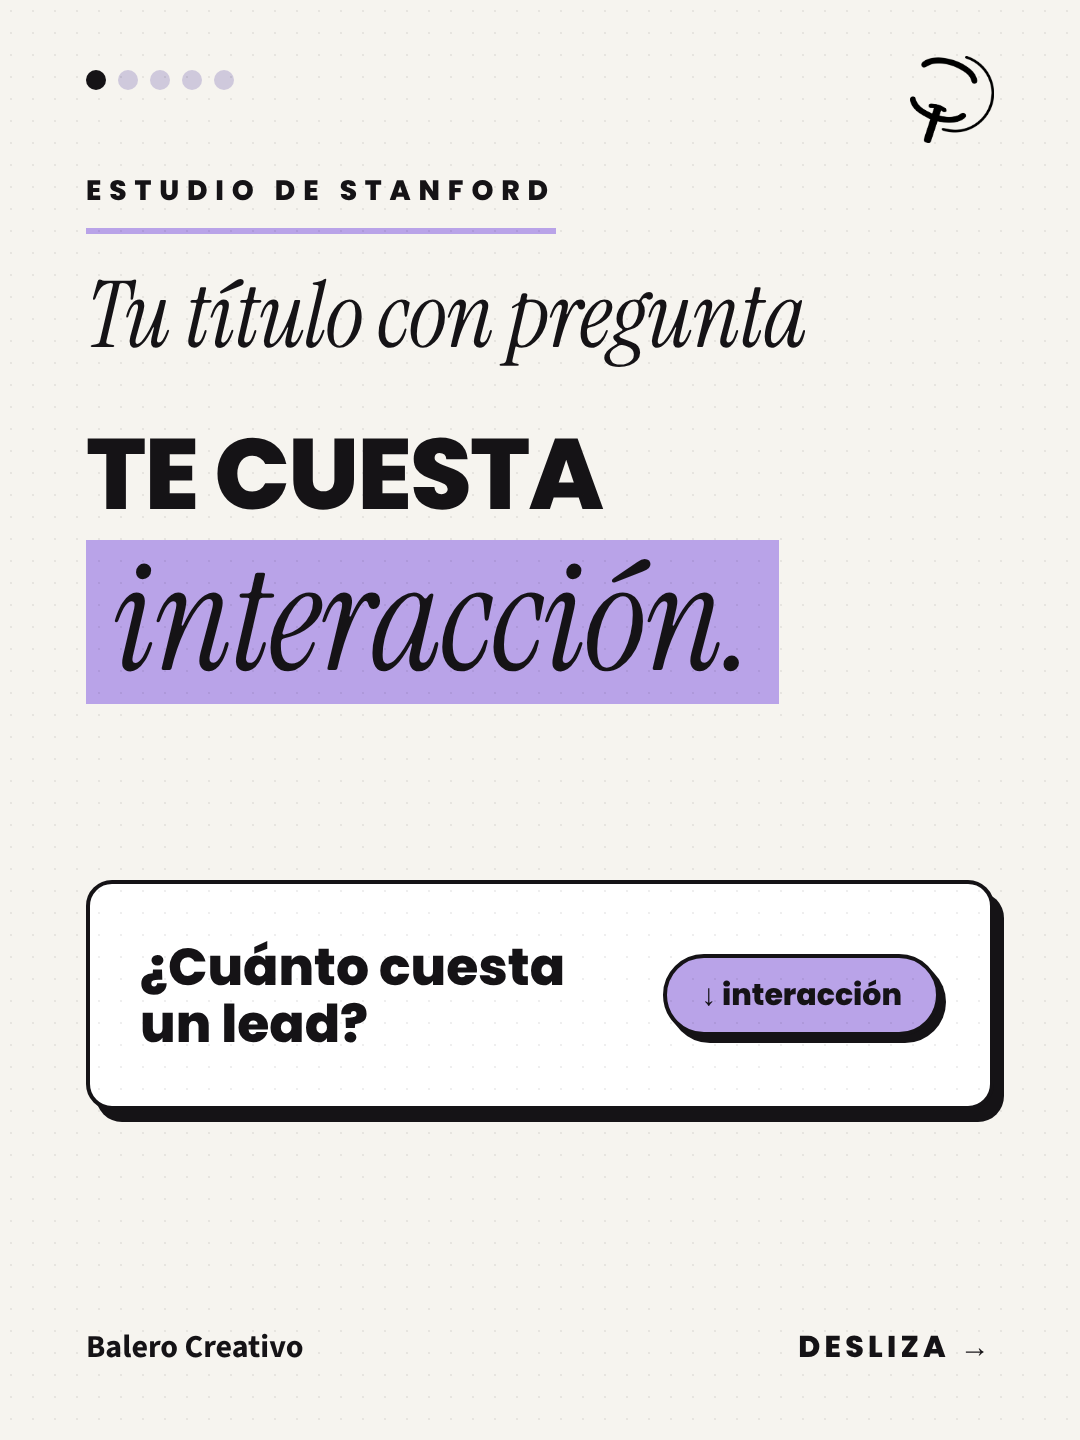
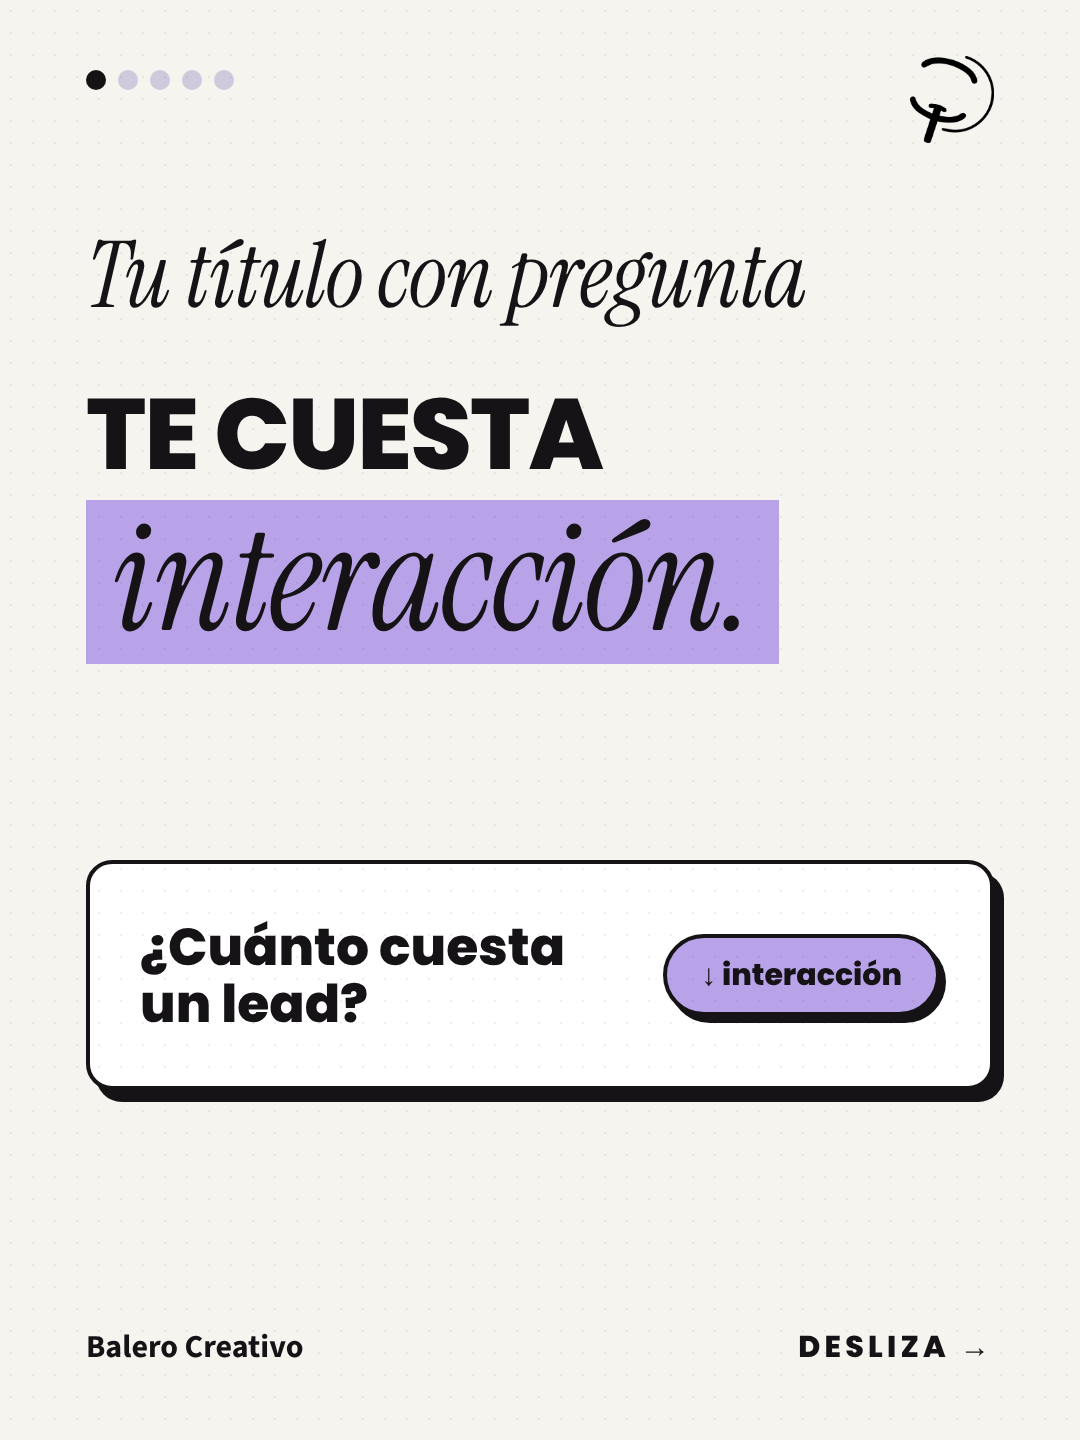
Carrusel Stanford: CTA de guardar, sin diagnóstico y portada sin etiqueta
Claude-Session: https://claude.ai/code/session_01Bq7ZC7FDz5LcdZBgNXTuBm

Changed region(s): [[0.0611, 0.125, 0.7639, 0.5], [0.0611, 0.5938, 0.9472, 0.7812]]

diff --git a/clientes/balero/diseno/2026-11/estilo-editorial/semana/stanford.html b/clientes/balero/diseno/2026-11/estilo-editorial/semana/stanford.html
@@ -60,4 +60,4 @@ body{background:#888}
 .meter{position:absolute;left:86px;right:86px;background:#fff;border:4px solid #151316;border-radius:26px;box-shadow:10px 12px 0 #151316;overflow:hidden}
 
 .bigy{position:absolute;left:86px;font:800 330px/.9 Poppins;background:#FFD23F;padding:10px 30px 24px;letter-spacing:-.04em}
-</style></head><body><div class="s" id="s1"><div class="dots"><i style="background:#151316"></i><i style="background:#cfc9dc"></i><i style="background:#cfc9dc"></i><i style="background:#cfc9dc"></i><i style="background:#cfc9dc"></i></div><img class="logo" src="/home/user/balero/.claude/skills/balero-imagenes/assets/logo-balero.png"><div class="kick" style="top:170px">Estudio de Stanford</div><div class="serif" style="position:absolute;left:86px;top:270px;font-size:92px;line-height:1">Tu título con pregunta</div><div class="big" style="top:420px;font-size:100px;line-height:1.08">TE CUESTA</div><div class="serif" style="position:absolute;left:86px;top:540px;font-size:150px;line-height:1"><span class="hl">interacción.</span></div><div class="card" style="left:86px;right:86px;top:880px;height:230px;padding:0 50px;display:flex;align-items:center;justify-content:space-between;gap:30px"><div style="font:800 52px/1.1 Poppins">¿Cuánto cuesta un lead?</div><div class="sticker" style="position:static;transform:none;background:#B9A3E8;font-size:30px;white-space:nowrap">↓ interacción</div></div><div class="foot"><span>Balero Creativo</span></div><div style="position:absolute;right:86px;bottom:70px;font:800 30px Poppins;letter-spacing:.14em">DESLIZA →</div></div><div class="s" id="s2"><div class="dots"><i style="background:#cfc9dc"></i><i style="background:#151316"></i><i style="background:#cfc9dc"></i><i style="background:#cfc9dc"></i><i style="background:#cfc9dc"></i></div><img class="logo" src="/home/user/balero/.claude/skills/balero-imagenes/assets/logo-balero.png"><div class="chip">LOS DATOS</div><div class="t" style="top:290px;font-size:100px">Qué analizó<br><span class="serif" style="font-size:1.25em;text-transform:none;font-weight:400;background:#FFD23F;padding:0 18px">Stanford.</span></div><div style="position:absolute;left:86px;top:620px;width:908px;height:150px;background:#fff;border:4px solid #151316;border-radius:26px;box-shadow:8px 9px 0 #151316;display:flex;flex-direction:row;align-items:center;gap:34px;padding:0 44px"><div style="font:800 64px/1 Poppins;min-width:370px;white-space:nowrap">53,030</div><div style="font:600 34px/1.2 'Source Sans Pro',sans-serif">posts de Reddit</div></div><div style="position:absolute;left:86px;top:790px;width:908px;height:150px;background:#fff;border:4px solid #151316;border-radius:26px;box-shadow:8px 9px 0 #151316;display:flex;flex-direction:row;align-items:center;gap:34px;padding:0 44px"><div style="font:800 64px/1 Poppins;min-width:370px;white-space:nowrap">3,078,791</div><div style="font:600 34px/1.2 'Source Sans Pro',sans-serif">artículos académicos</div></div><div style="position:absolute;left:86px;top:960px;width:908px;height:150px;background:#B9A3E8;border:4px solid #151316;border-radius:26px;box-shadow:8px 9px 0 #151316;display:flex;flex-direction:row;align-items:center;gap:34px;padding:0 44px"><div style="font:800 64px/1 Poppins;min-width:370px;white-space:nowrap">22,743</div><div style="font:600 34px/1.2 'Source Sans Pro',sans-serif">experimentos A/B de titulares</div></div><div style="position:absolute;left:86px;top:1130px;width:908px;height:150px;background:#fff;border:4px solid #151316;border-radius:26px;box-shadow:8px 9px 0 #151316;display:flex;flex-direction:row;align-items:center;gap:34px;padding:0 44px"><div style="font:800 64px/1 Poppins;min-width:370px;white-space:nowrap">400</div><div style="font:600 34px/1.2 'Source Sans Pro',sans-serif">personas en un estudio de laboratorio</div></div><div class="foot"><span>Balero Creativo</span></div></div><div class="s" id="s3"><div class="dots"><i style="background:#cfc9dc"></i><i style="background:#cfc9dc"></i><i style="background:#151316"></i><i style="background:#cfc9dc"></i><i style="background:#cfc9dc"></i></div><img class="logo" src="/home/user/balero/.claude/skills/balero-imagenes/assets/logo-balero.png"><div class="chip">LA CONCLUSIÓN</div><div class="t" style="top:290px;font-size:100px">La pregunta<br>suena a <span class="serif" style="font-size:1.25em;text-transform:none;font-weight:400;background:#FFD23F;padding:0 18px">duda.</span></div><div class="body" style="top:610px;width:880px">Los títulos en forma de pregunta reducen la interacción porque el lector los percibe como menos informativos.</div><div class="meter" style="top:830px;height:400px;padding:36px 44px"><div class="lbl" style="left:44px;top:30px;font-size:26px;color:#3d3a42">SE PERCIBE QUÉ TAN INFORMATIVO (ILUSTRATIVO)</div><div class="lbl" style="left:44px;top:150px;white-space:nowrap">Con pregunta</div><div style="position:absolute;left:350px;top:135px;width:190px;height:70px;background:#e6e1ef;border:4px solid #151316;border-radius:35px"></div><div class="lbl" style="left:44px;top:270px;white-space:nowrap">Que afirma</div><div style="position:absolute;left:350px;top:255px;width:500px;height:70px;background:#B9A3E8;border:4px solid #151316;border-radius:35px"></div></div><div class="foot"><span>Balero Creativo</span></div></div><div class="s" id="s4"><div class="dots"><i style="background:#cfc9dc"></i><i style="background:#cfc9dc"></i><i style="background:#cfc9dc"></i><i style="background:#151316"></i><i style="background:#cfc9dc"></i></div><img class="logo" src="/home/user/balero/.claude/skills/balero-imagenes/assets/logo-balero.png"><div class="chip">QUÉ HACER</div><div class="t" style="top:290px;font-size:100px">Afirma,<br>no <span class="serif" style="font-size:1.25em;text-transform:none;font-weight:400;background:#FFD23F;padding:0 18px">preguntes.</span></div><div class="body" style="top:610px;width:880px">Pruébalo en pocas piezas antes de reescribir todo.</div><div class="cmp bad" style="top:820px;height:190px"><div class="m">✗</div><div style="display:flex;align-items:center;gap:36px"><small style="display:inline;margin:0;white-space:nowrap">ASÍ NO</small><span>¿Cuánto cuesta un lead?</span></div></div><div class="cmp good" style="top:1060px;height:190px"><div class="m">✓</div><div style="display:flex;align-items:center;gap:36px"><small style="display:inline;margin:0;white-space:nowrap">ASÍ SÍ</small><span>Cuánto cuesta un lead</span></div></div><div class="foot"><span>Balero Creativo</span></div></div><div class="s" id="s5"><div class="dots"><i style="background:#cfc9dc"></i><i style="background:#cfc9dc"></i><i style="background:#cfc9dc"></i><i style="background:#cfc9dc"></i><i style="background:#151316"></i></div><img class="logo" src="/home/user/balero/.claude/skills/balero-imagenes/assets/logo-balero.png"><div class="kick" style="top:170px">Tu siguiente paso</div><div class="serif" style="position:absolute;left:86px;top:270px;font-size:104px;line-height:1">¿Revisamos tus</div><div class="big" style="top:420px;font-size:100px;line-height:1.08">TÍTULOS Y</div><div class="serif" style="position:absolute;left:86px;top:540px;font-size:150px;line-height:1"><span class="hl">ganchos?</span></div><div class="body" style="top:760px;width:880px">Te decimos qué ajustar en 15 minutos, sin costo.</div><div class="tape" style="top:1150px;font-family:Poppins;font-weight:800;font-size:36px">Diagnóstico gratis de 15 minutos</div><div class="arrow" style="top:1150px;transform:translateY(22px)">→</div><div class="foot"><span>Balero Creativo</span></div><div style="position:absolute;right:86px;bottom:70px;font:700 30px 'Source Sans Pro';color:#3d3a42;text-align:right;max-width:640px">Fuente: Stanford GSB</div></div></body></html>
+</style></head><body><div class="s" id="s1"><div class="dots"><i style="background:#151316"></i><i style="background:#cfc9dc"></i><i style="background:#cfc9dc"></i><i style="background:#cfc9dc"></i><i style="background:#cfc9dc"></i></div><img class="logo" src="/home/user/balero/.claude/skills/balero-imagenes/assets/logo-balero.png"><div class="serif" style="position:absolute;left:86px;top:230px;font-size:92px;line-height:1">Tu título con pregunta</div><div class="big" style="top:380px;font-size:100px;line-height:1.08">TE CUESTA</div><div class="serif" style="position:absolute;left:86px;top:500px;font-size:150px;line-height:1"><span class="hl">interacción.</span></div><div class="card" style="left:86px;right:86px;top:860px;height:230px;padding:0 50px;display:flex;align-items:center;justify-content:space-between;gap:30px"><div style="font:800 52px/1.1 Poppins">¿Cuánto cuesta un lead?</div><div class="sticker" style="position:static;transform:none;background:#B9A3E8;font-size:30px;white-space:nowrap">↓ interacción</div></div><div class="foot"><span>Balero Creativo</span></div><div style="position:absolute;right:86px;bottom:70px;font:800 30px Poppins;letter-spacing:.14em">DESLIZA →</div></div><div class="s" id="s2"><div class="dots"><i style="background:#cfc9dc"></i><i style="background:#151316"></i><i style="background:#cfc9dc"></i><i style="background:#cfc9dc"></i><i style="background:#cfc9dc"></i></div><img class="logo" src="/home/user/balero/.claude/skills/balero-imagenes/assets/logo-balero.png"><div class="chip">LOS DATOS</div><div class="t" style="top:290px;font-size:100px">Qué analizó<br><span class="serif" style="font-size:1.25em;text-transform:none;font-weight:400;background:#FFD23F;padding:0 18px">Stanford.</span></div><div style="position:absolute;left:86px;top:620px;width:908px;height:150px;background:#fff;border:4px solid #151316;border-radius:26px;box-shadow:8px 9px 0 #151316;display:flex;flex-direction:row;align-items:center;gap:34px;padding:0 44px"><div style="font:800 64px/1 Poppins;min-width:370px;white-space:nowrap">53,030</div><div style="font:600 34px/1.2 'Source Sans Pro',sans-serif">posts de Reddit</div></div><div style="position:absolute;left:86px;top:790px;width:908px;height:150px;background:#fff;border:4px solid #151316;border-radius:26px;box-shadow:8px 9px 0 #151316;display:flex;flex-direction:row;align-items:center;gap:34px;padding:0 44px"><div style="font:800 64px/1 Poppins;min-width:370px;white-space:nowrap">3,078,791</div><div style="font:600 34px/1.2 'Source Sans Pro',sans-serif">artículos académicos</div></div><div style="position:absolute;left:86px;top:960px;width:908px;height:150px;background:#B9A3E8;border:4px solid #151316;border-radius:26px;box-shadow:8px 9px 0 #151316;display:flex;flex-direction:row;align-items:center;gap:34px;padding:0 44px"><div style="font:800 64px/1 Poppins;min-width:370px;white-space:nowrap">22,743</div><div style="font:600 34px/1.2 'Source Sans Pro',sans-serif">experimentos A/B de titulares</div></div><div style="position:absolute;left:86px;top:1130px;width:908px;height:150px;background:#fff;border:4px solid #151316;border-radius:26px;box-shadow:8px 9px 0 #151316;display:flex;flex-direction:row;align-items:center;gap:34px;padding:0 44px"><div style="font:800 64px/1 Poppins;min-width:370px;white-space:nowrap">400</div><div style="font:600 34px/1.2 'Source Sans Pro',sans-serif">personas en un estudio de laboratorio</div></div><div class="foot"><span>Balero Creativo</span></div></div><div class="s" id="s3"><div class="dots"><i style="background:#cfc9dc"></i><i style="background:#cfc9dc"></i><i style="background:#151316"></i><i style="background:#cfc9dc"></i><i style="background:#cfc9dc"></i></div><img class="logo" src="/home/user/balero/.claude/skills/balero-imagenes/assets/logo-balero.png"><div class="chip">LA CONCLUSIÓN</div><div class="t" style="top:290px;font-size:100px">La pregunta<br>suena a <span class="serif" style="font-size:1.25em;text-transform:none;font-weight:400;background:#FFD23F;padding:0 18px">duda.</span></div><div class="body" style="top:610px;width:880px">Los títulos en forma de pregunta reducen la interacción porque el lector los percibe como menos informativos.</div><div class="meter" style="top:830px;height:400px;padding:36px 44px"><div class="lbl" style="left:44px;top:30px;font-size:26px;color:#3d3a42">SE PERCIBE QUÉ TAN INFORMATIVO (ILUSTRATIVO)</div><div class="lbl" style="left:44px;top:150px;white-space:nowrap">Con pregunta</div><div style="position:absolute;left:350px;top:135px;width:190px;height:70px;background:#e6e1ef;border:4px solid #151316;border-radius:35px"></div><div class="lbl" style="left:44px;top:270px;white-space:nowrap">Que afirma</div><div style="position:absolute;left:350px;top:255px;width:500px;height:70px;background:#B9A3E8;border:4px solid #151316;border-radius:35px"></div></div><div class="foot"><span>Balero Creativo</span></div></div><div class="s" id="s4"><div class="dots"><i style="background:#cfc9dc"></i><i style="background:#cfc9dc"></i><i style="background:#cfc9dc"></i><i style="background:#151316"></i><i style="background:#cfc9dc"></i></div><img class="logo" src="/home/user/balero/.claude/skills/balero-imagenes/assets/logo-balero.png"><div class="chip">QUÉ HACER</div><div class="t" style="top:290px;font-size:100px">Afirma,<br>no <span class="serif" style="font-size:1.25em;text-transform:none;font-weight:400;background:#FFD23F;padding:0 18px">preguntes.</span></div><div class="body" style="top:610px;width:880px">Pruébalo en pocas piezas antes de reescribir todo.</div><div class="cmp bad" style="top:820px;height:190px"><div class="m">✗</div><div style="display:flex;align-items:center;gap:36px"><small style="display:inline;margin:0;white-space:nowrap">ASÍ NO</small><span>¿Cuánto cuesta un lead?</span></div></div><div class="cmp good" style="top:1060px;height:190px"><div class="m">✓</div><div style="display:flex;align-items:center;gap:36px"><small style="display:inline;margin:0;white-space:nowrap">ASÍ SÍ</small><span>Cuánto cuesta un lead</span></div></div><div class="foot"><span>Balero Creativo</span></div></div><div class="s" id="s5"><div class="dots"><i style="background:#cfc9dc"></i><i style="background:#cfc9dc"></i><i style="background:#cfc9dc"></i><i style="background:#cfc9dc"></i><i style="background:#151316"></i></div><img class="logo" src="/home/user/balero/.claude/skills/balero-imagenes/assets/logo-balero.png"><div class="kick" style="top:170px">Antes de publicar</div><div class="serif" style="position:absolute;left:86px;top:270px;font-size:104px;line-height:1">Guarda este</div><div class="big" style="top:420px;font-size:100px;line-height:1.08">CARRUSEL</div><div class="serif" style="position:absolute;left:86px;top:540px;font-size:96px;line-height:1"><span class="hl">para tu próximo título.</span></div><div class="body" style="top:730px;width:880px">Cuando redactes, afirma en lugar de preguntar.</div><div class="tape" style="top:1150px;font-family:Poppins;font-weight:800;font-size:36px">Toca el ícono de guardar</div><div class="arrow" style="top:1150px;transform:translateY(22px)">→</div><div class="foot"><span>Balero Creativo</span></div><div style="position:absolute;right:86px;bottom:70px;font:700 30px 'Source Sans Pro';color:#3d3a42;text-align:right;max-width:640px">Fuente: Stanford GSB</div></div></body></html>

diff --git a/clientes/balero/diseno/2026-11/estilo-editorial/semana/defs.py b/clientes/balero/diseno/2026-11/estilo-editorial/semana/defs.py
@@ -32,13 +32,13 @@ bars=lambda top:(f'<div class="meter" style="top:{top}px;height:400px;padding:36
   f'<div class="lbl" style="left:44px;top:150px;white-space:nowrap">Con pregunta</div><div style="position:absolute;left:350px;top:135px;width:190px;height:70px;background:#e6e1ef;border:4px solid #151316;border-radius:35px"></div>'
   f'<div class="lbl" style="left:44px;top:270px;white-space:nowrap">Que afirma</div><div style="position:absolute;left:350px;top:255px;width:500px;height:70px;background:#B9A3E8;border:4px solid #151316;border-radius:35px"></div></div>')
 stan=[
- (kick('Estudio de Stanford')+serif('Tu título con pregunta',270,92)+big('TE CUESTA',420,100)+serif('<span class="hl">interacción.</span>',540,150)+
-   '<div class="card" style="left:86px;right:86px;top:880px;height:230px;padding:0 50px;display:flex;align-items:center;justify-content:space-between;gap:30px"><div style="font:800 52px/1.1 Poppins">¿Cuánto cuesta un lead?</div><div class="sticker" style="position:static;transform:none;background:#B9A3E8;font-size:30px;white-space:nowrap">↓ interacción</div></div>', FD),
+ (serif('Tu título con pregunta',230,92)+big('TE CUESTA',380,100)+serif('<span class="hl">interacción.</span>',500,150)+
+   '<div class="card" style="left:86px;right:86px;top:860px;height:230px;padding:0 50px;display:flex;align-items:center;justify-content:space-between;gap:30px"><div style="font:800 52px/1.1 Poppins">¿Cuánto cuesta un lead?</div><div class="sticker" style="position:static;transform:none;background:#B9A3E8;font-size:30px;white-space:nowrap">↓ interacción</div></div>', FD),
  (chip('LOS DATOS')+title('Qué analizó',hl('Stanford.'))+hrow(620,150,'53,030','posts de Reddit')+hrow(790,150,'3,078,791','artículos académicos')+hrow(960,150,'22,743','experimentos A/B de titulares','#B9A3E8')+hrow(1130,150,'400','personas en un estudio de laboratorio'), F),
  (chip('LA CONCLUSIÓN')+title('La pregunta','suena a '+hl('duda.'))+body('Los títulos en forma de pregunta reducen la interacción porque el lector los percibe como menos informativos.')+bars(830), F),
  (chip('QUÉ HACER')+title('Afirma,','no '+hl('preguntes.'))+body('Pruébalo en pocas piezas antes de reescribir todo.')+
    hcmp(820,'bad','✗','ASÍ NO','¿Cuánto cuesta un lead?')+hcmp(1060,'good','✓','ASÍ SÍ','Cuánto cuesta un lead'), F),
- (kick('Tu siguiente paso')+serif('¿Revisamos tus',270,104)+big('TÍTULOS Y',420,100)+serif('<span class="hl">ganchos?</span>',540,150)+body('Te decimos qué ajustar en 15 minutos, sin costo.',760)+tape('Diagnóstico gratis de 15 minutos',1150), foot('Fuente: Stanford GSB')),
+ (kick('Antes de publicar')+serif('Guarda este',270,104)+big('CARRUSEL',420,100)+serif('<span class="hl">para tu próximo título.</span>',540,96)+body('Cuando redactes, afirma en lugar de preguntar.',730)+tape('Toca el ícono de guardar',1150), foot('Fuente: Stanford GSB')),
 ]
 # ---------- WORKDAY ----------
 def flow(top):
